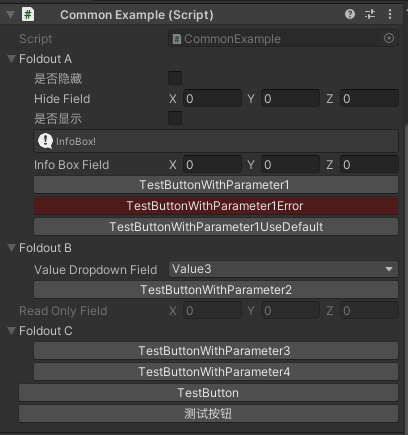
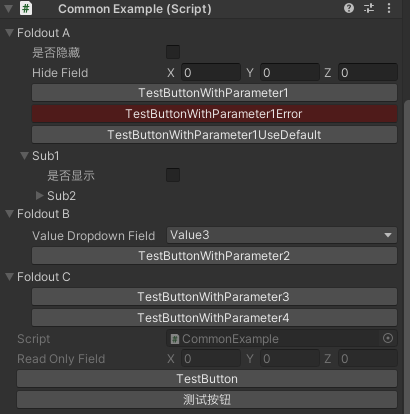
Add sub foldout feature.

diff --git a/Core/Editor/FoldoutDrawer.cs b/Core/Editor/FoldoutDrawer.cs
@@ -13,33 +13,38 @@ namespace CustomizationInspector.Editor
         private class FoldoutInfo
         {
             public readonly string GroupName;
+            public readonly string ShowName;
             public readonly List<string> PropertiesPath;
             public readonly List<MethodInfo> MethodInfos;
+            public readonly List<FoldoutInfo> Children;
             public bool Expanded;
 
-            public FoldoutInfo(string groupName, bool expanded)
+            public FoldoutInfo(string groupName, string showName, bool expanded)
             {
                 GroupName = groupName;
+                ShowName = showName;
                 PropertiesPath = new List<string>();
                 MethodInfos = new List<MethodInfo>();
+                Children = new List<FoldoutInfo>();
                 Expanded = expanded;
             }
         }
 
         public delegate void DrawMethodEventHandler(MethodInfo methodInfo, Object[] targets);
+        public const char NameSeparator = '/';
+        
         public DrawMethodEventHandler DrawMethod;
         
+        private HashSet<string> foldoutMembers;
         private Dictionary<string, FoldoutInfo> foldoutCache;
-        private Dictionary<string, string> allFoldoutProperties;
-        private List<string> allGroupNames; //sorted by group order
-        private HashSet<string> drawnFoldoutMembers;
-        private HashSet<string> drawnFoldoutGroups;
+        private List<FoldoutInfo> foldoutRoots;
 
         public FoldoutDrawer(SerializedObject serializedObject, Object[] targets) : base(serializedObject, targets)
         {
-            Setup(serializedObject.GetIterator());
-            drawnFoldoutMembers = new HashSet<string>();
-            drawnFoldoutGroups = new HashSet<string>();
+	        foldoutMembers = new HashSet<string>();
+	        foldoutCache = new Dictionary<string, FoldoutInfo>();
+	        foldoutRoots = new List<FoldoutInfo>();
+	        Setup();
         }
 
         public void SetDrawMethodHandler(DrawMethodEventHandler handler)
@@ -47,11 +52,9 @@ namespace CustomizationInspector.Editor
 	        DrawMethod = handler;
         }
         
-        private void Setup(SerializedProperty iterator)
-		{
-			foldoutCache = new Dictionary<string, FoldoutInfo>();
-			allFoldoutProperties = new Dictionary<string, string>();
-			allGroupNames = new List<string>();
+        private void Setup()
+        {
+			var iterator = serializedObject.GetIterator();
 			for (bool enterChildren = true; iterator.NextVisible(enterChildren); enterChildren = false)
 			{
 				try
@@ -60,14 +63,9 @@ namespace CustomizationInspector.Editor
 					if (fieldInfo == null) continue;
 					var foldoutAttribute = fieldInfo.GetCustomAttribute<FoldoutAttribute>();
 					if (foldoutAttribute == null) continue;
-					if (!foldoutCache.TryGetValue(foldoutAttribute.GroupName, out var foldoutInfo))
-					{
-						foldoutInfo = new FoldoutInfo(foldoutAttribute.GroupName, FieldInspector.LoadFoldoutExpand(FieldInspector.GetFoldoutSaveKey(foldoutAttribute.GroupName, target)));
-						foldoutCache.Add(foldoutAttribute.GroupName, foldoutInfo);
-						allGroupNames.Add(foldoutAttribute.GroupName);
-					}
+					var foldoutInfo = GetOrCreateFoldoutInfo(foldoutAttribute.GroupName);
 					foldoutInfo.PropertiesPath.Add(iterator.propertyPath);
-					allFoldoutProperties.Add(iterator.propertyPath, foldoutAttribute.GroupName);
+					AddFoldoutMember(iterator);
 				}
 				catch (Exception e)
 				{
@@ -90,50 +88,80 @@ namespace CustomizationInspector.Editor
 				}
 				if (foldoutAttribute == null) continue;
 				
-				if (!foldoutCache.TryGetValue(foldoutAttribute.GroupName, out var foldoutInfo))
-				{
-					foldoutInfo = new FoldoutInfo(foldoutAttribute.GroupName, FieldInspector.LoadFoldoutExpand(FieldInspector.GetFoldoutSaveKey(foldoutAttribute.GroupName, target)));
-					foldoutCache.Add(foldoutAttribute.GroupName, foldoutInfo);
-					allGroupNames.Add(foldoutAttribute.GroupName);
-				}
+				var foldoutInfo = GetOrCreateFoldoutInfo(foldoutAttribute.GroupName);
 				foldoutInfo.MethodInfos.Add(methodInfo);
+				AddFoldoutMember(methodInfo);
 			}
 		}
 
-        public void Draw()
+        private FoldoutInfo GetOrCreateFoldoutInfo(string groupName)
         {
-	        drawnFoldoutMembers.Clear();
-	        drawnFoldoutGroups.Clear();
-	        SerializedProperty iterator = serializedObject.GetIterator();
-	        for (bool enterChildren = true; iterator.NextVisible(enterChildren); enterChildren = false)
+	        return TryGetFoldoutInfo(groupName, out var foldoutInfo) ? foldoutInfo : CreateFoldoutInfoAndAddToParent(groupName);
+        }
+        
+        private FoldoutInfo CreateFoldoutInfoAndAddToParent(string groupName)
+        {
+	        string[] names = groupName.Split(NameSeparator);
+	        AddToParent(names);
+	        TryGetFoldoutInfo(groupName, out var foldoutInfo);
+	        return foldoutInfo;
+        }
+
+        private bool TryGetFoldoutInfo(string groupName, out FoldoutInfo foldoutInfo)
+        {
+	        return foldoutCache.TryGetValue(groupName, out foldoutInfo);
+        }
+
+        private FoldoutInfo CreateFoldoutInfo(string groupName, string showName)
+        {
+	        FoldoutInfo foldoutInfo = new FoldoutInfo(groupName, showName, FieldInspector.LoadFoldoutExpand(FieldInspector.GetFoldoutSaveKey(groupName, target)));
+	        foldoutCache.Add(groupName, foldoutInfo);
+	        return foldoutInfo;
+        }
+
+        private void AddToParent(string[] names)
+        {
+	        string groupName = null;
+	        FoldoutInfo parent = null;
+	        for (int i = 0; i < names.Length; i++)
 	        {
-		        using (new EditorGUI.DisabledScope("m_Script" == iterator.propertyPath))
+		        bool isRoot = i == 0;
+		        if (isRoot)
+			        groupName = names[i];
+		        else
+			        groupName += "/" + names[i];
+		        bool create = false;
+		        if (!TryGetFoldoutInfo(groupName, out var child))
 		        {
-			        if (drawnFoldoutMembers.Contains(iterator.propertyPath)) continue;
-			        if (allFoldoutProperties.TryGetValue(iterator.propertyPath, out var groupName) &&
-			            foldoutCache.TryGetValue(groupName, out var foldoutInfo))
-			        {
-				        DrawFoldout(foldoutInfo);
-			        }
+			        create = true;
+			        child = CreateFoldoutInfo(groupName, names[i]);
 		        }
-	        }
-			
-	        //Draw remain foldout
-	        foreach (var groupName in allGroupNames)
-	        {
-		        if (drawnFoldoutGroups.Contains(groupName) || !foldoutCache.TryGetValue(groupName, out var foldoutInfo)) continue;
-		        DrawFoldout(foldoutInfo);
+
+		        if (create)
+		        {
+			        if (isRoot)
+				        foldoutRoots.Add(child);
+			        else
+				        parent?.Children.Add(child);
+		        }
+		        parent = child;
 	        }
         }
         
-        private void DrawFoldout(FoldoutInfo foldoutInfo)
+        public void Draw()
         {
-	        drawnFoldoutGroups.Add(foldoutInfo.GroupName);
-	        foldoutInfo.Expanded = FieldInspector.DrawFoldout(foldoutInfo.Expanded, foldoutInfo.GroupName, target);
+	        foreach (var foldoutInfo in foldoutRoots)
+		        DrawFoldout(foldoutInfo, true);
+        }
+        
+        private void DrawFoldout(FoldoutInfo foldoutInfo, bool parentExpand)
+        {
+	        if (!parentExpand) return;
+	        //Draw self
+	        foldoutInfo.Expanded = FieldInspector.DrawFoldout(foldoutInfo.Expanded, foldoutInfo.ShowName, target);
 	        EditorGUI.indentLevel++;
 	        foreach (var path in foldoutInfo.PropertiesPath)
 	        {
-		        drawnFoldoutMembers.Add(path);
 		        if (foldoutInfo.Expanded)
 			        EditorGUILayout.PropertyField(serializedObject.FindProperty(path), true);
 	        }
@@ -142,22 +170,34 @@ namespace CustomizationInspector.Editor
 	        {
 		        foreach (var methodInfo in foldoutInfo.MethodInfos)
 		        {
-			        drawnFoldoutMembers.Add(GetFoldoutMethodMemberKey(methodInfo));
 			        if (foldoutInfo.Expanded)
 				        DrawMethod(methodInfo, targets);
 		        }
 	        }
+	        //Draw children
+	        foreach (var child in foldoutInfo.Children)
+		        DrawFoldout(child, foldoutInfo.Expanded);
 	        EditorGUI.indentLevel--;
         }
 
-        public bool DrawnProperty(SerializedProperty property)
+        private void AddFoldoutMember(SerializedProperty serializedProperty)
         {
-	        return drawnFoldoutMembers.Contains(property.propertyPath);
+	        foldoutMembers.Add(serializedProperty.propertyPath);
         }
         
-        public bool DrawnMethod(MethodInfo methodInfo)
+        private void AddFoldoutMember(MethodInfo methodInfo)
         {
-	        return drawnFoldoutMembers.Contains(GetFoldoutMethodMemberKey(methodInfo));
+	        foldoutMembers.Add(GetFoldoutMethodMemberKey(methodInfo));
+        }
+        
+        public bool IsFoldout(SerializedProperty property)
+        {
+	        return foldoutMembers.Contains(property.propertyPath);
+        }
+        
+        public bool IsFoldout(MethodInfo methodInfo)
+        {
+	        return foldoutMembers.Contains(GetFoldoutMethodMemberKey(methodInfo));
         }
         
         public void SaveExpand()

diff --git a/Common/Runtime/Attributes/PropertyAttributes.cs b/Common/Runtime/Attributes/PropertyAttributes.cs
@@ -91,6 +91,28 @@ namespace CustomizationInspector.Runtime
 		}
 	}
 	
+	/// <example>
+	/// <code>
+	/// public class MyComponent : MonoBehaviour
+	/// {
+	/// 	[FoldoutAttribute("Foldout A")]
+	/// 	public int intValue;
+	/// 	[FoldoutAttribute("Foldout A/Sub Foldout")]
+	/// 	public int intValue;
+	/// 
+	/// 	[FoldoutAttribute("Foldout A")]
+	/// 	private void Jump()
+	/// 	{
+	/// 		// ...
+	/// 	}
+	/// 	[FoldoutAttribute("Foldout A/Sub Foldout")]
+	/// 	private void Fly()
+	/// 	{
+	/// 		// ...
+	/// 	}
+	/// }
+	/// </code>
+	/// </example>
 	[AttributeUsage(AttributeTargets.Field | AttributeTargets.Method, Inherited = true, AllowMultiple = false)]
 	public class FoldoutAttribute : Attribute
 	{

diff --git a/Common/Example/CommonExample.cs b/Common/Example/CommonExample.cs
@@ -13,7 +13,7 @@ namespace CustomizationInspector.Example
         [HideIf(nameof(Hide))] //支持值为bool的field、property、method
         public Vector3 HideField;
 
-        [Foldout("Foldout A")]
+        [Foldout("Foldout A/Sub1")]
         [Rename("是否显示")]
         public bool Show;
 
@@ -30,7 +30,7 @@ namespace CustomizationInspector.Example
 
         private string[] DropdownArray = {"Value1", "Value2", "Value3"};
 
-        [Foldout("Foldout A")]
+        [Foldout("Foldout A/Sub1/Sub2")]
         [InfoBox("InfoBox!", MessageType.Info)]
         public Vector3 InfoBoxField;
 

diff --git a/Common/Example/CommonExampleSO.cs b/Common/Example/CommonExampleSO.cs
@@ -14,7 +14,7 @@ namespace CustomizationInspector.Example
         [HideIf(nameof(Hide))] //支持值为bool的field、property、method
         public Vector3 HideField;
 
-        [Foldout("Foldout A")]
+        [Foldout("Foldout A/Sub1")]
         [Rename("是否显示")]
         public bool Show;
 
@@ -31,7 +31,7 @@ namespace CustomizationInspector.Example
 
         private string[] DropdownArray = {"Value1", "Value2", "Value3"};
 
-        [Foldout("Foldout A")]
+        [Foldout("Foldout A/Sub1/Sub2")]
         [InfoBox("InfoBox!", MessageType.Info)]
         public Vector3 InfoBoxField;
 

diff --git a/Core/Editor/ButtonDrawer.cs b/Core/Editor/ButtonDrawer.cs
@@ -26,7 +26,7 @@ namespace CustomizationInspector.Editor
 		    MethodInfo[] methodInfos = targetType.GetMethods(BindingFlags);
 		    foreach (var methodInfo in methodInfos)
 		    {
-			    if (foldoutDrawer != null && foldoutDrawer.DrawnMethod(methodInfo)) continue;
+			    if (foldoutDrawer != null && foldoutDrawer.IsFoldout(methodInfo)) continue;
 			    DrawButtons(methodInfo, targets);
 		    }
 	    }

diff --git a/Utilities/Editor/FieldInspector.cs b/Utilities/Editor/FieldInspector.cs
@@ -99,7 +99,7 @@ namespace CustomizationInspector.Editor
 
 		public static string GetFoldoutSaveKey(string text, Object target)
 		{
-			return string.Format(EditorPrefsFoldoutKey, text, target.GetInstanceID());
+			return GetFoldoutSaveKey(text, target.GetInstanceID());
 		}
 		
 		public static string GetFoldoutSaveKey(string text, int hashCode = 0)

diff --git a/Core/Editor/CustomizationObjectEditor.cs b/Core/Editor/CustomizationObjectEditor.cs
@@ -35,7 +35,7 @@ namespace CustomizationInspector.Editor
 			{
 				using (new EditorGUI.DisabledScope("m_Script" == iterator.propertyPath))
 				{
-					if(!foldoutDrawer.DrawnProperty(iterator))
+					if (!foldoutDrawer.IsFoldout(iterator))
 						EditorGUILayout.PropertyField(iterator, true);
 				}
 			}
